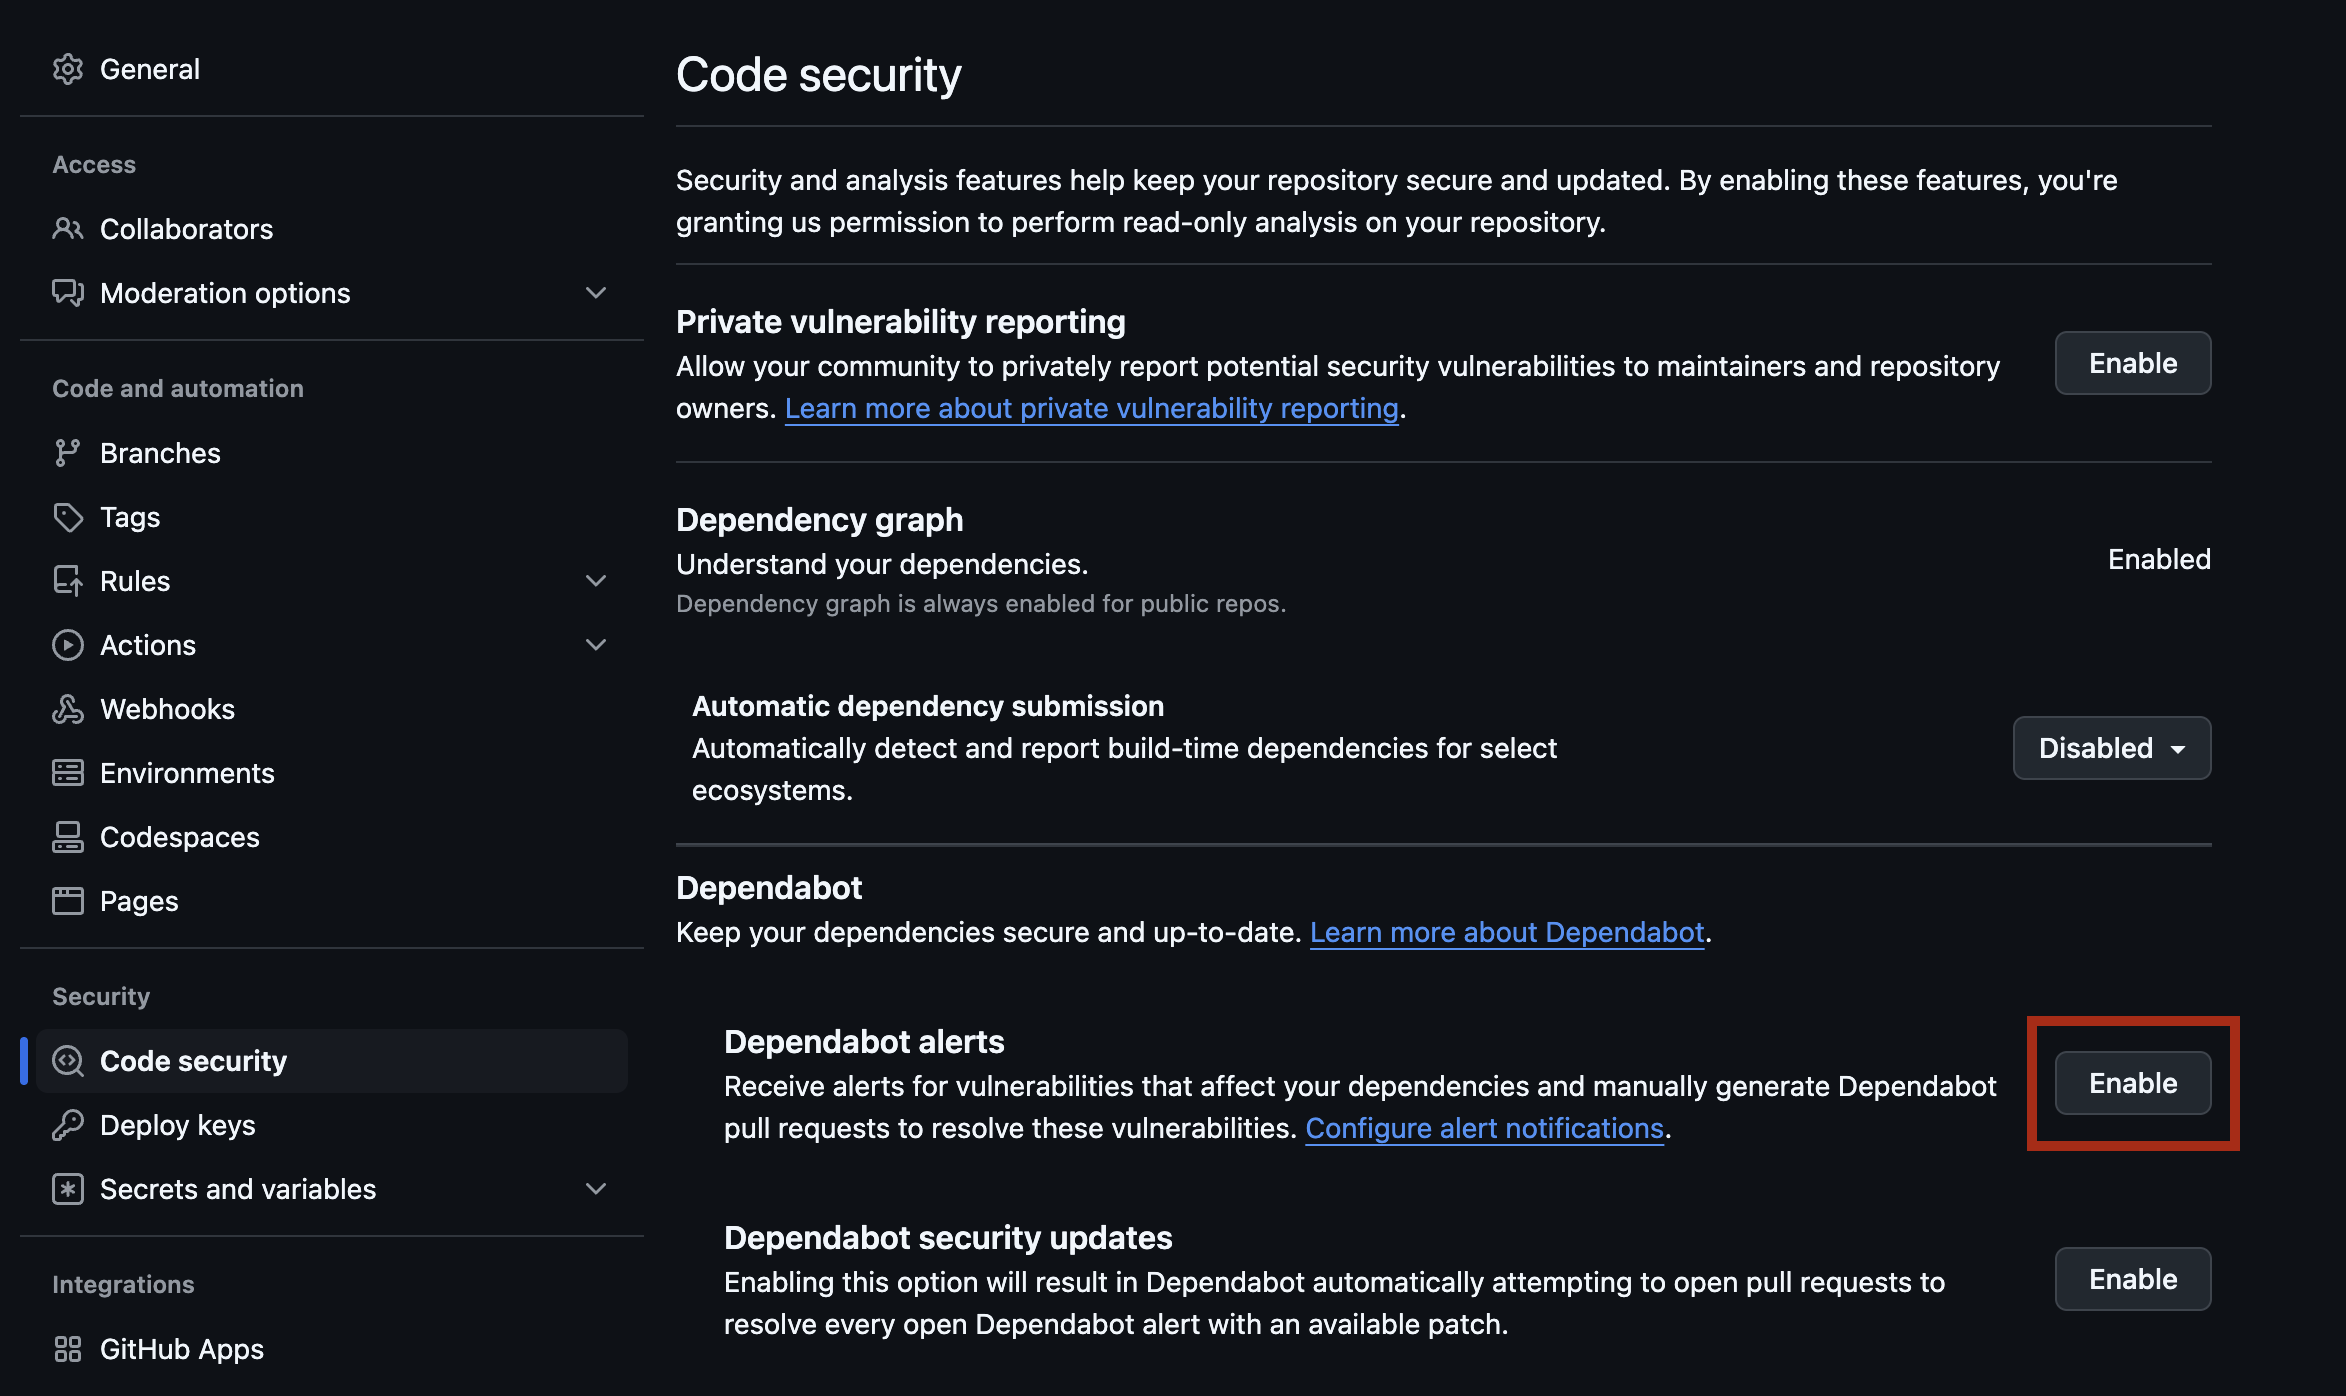
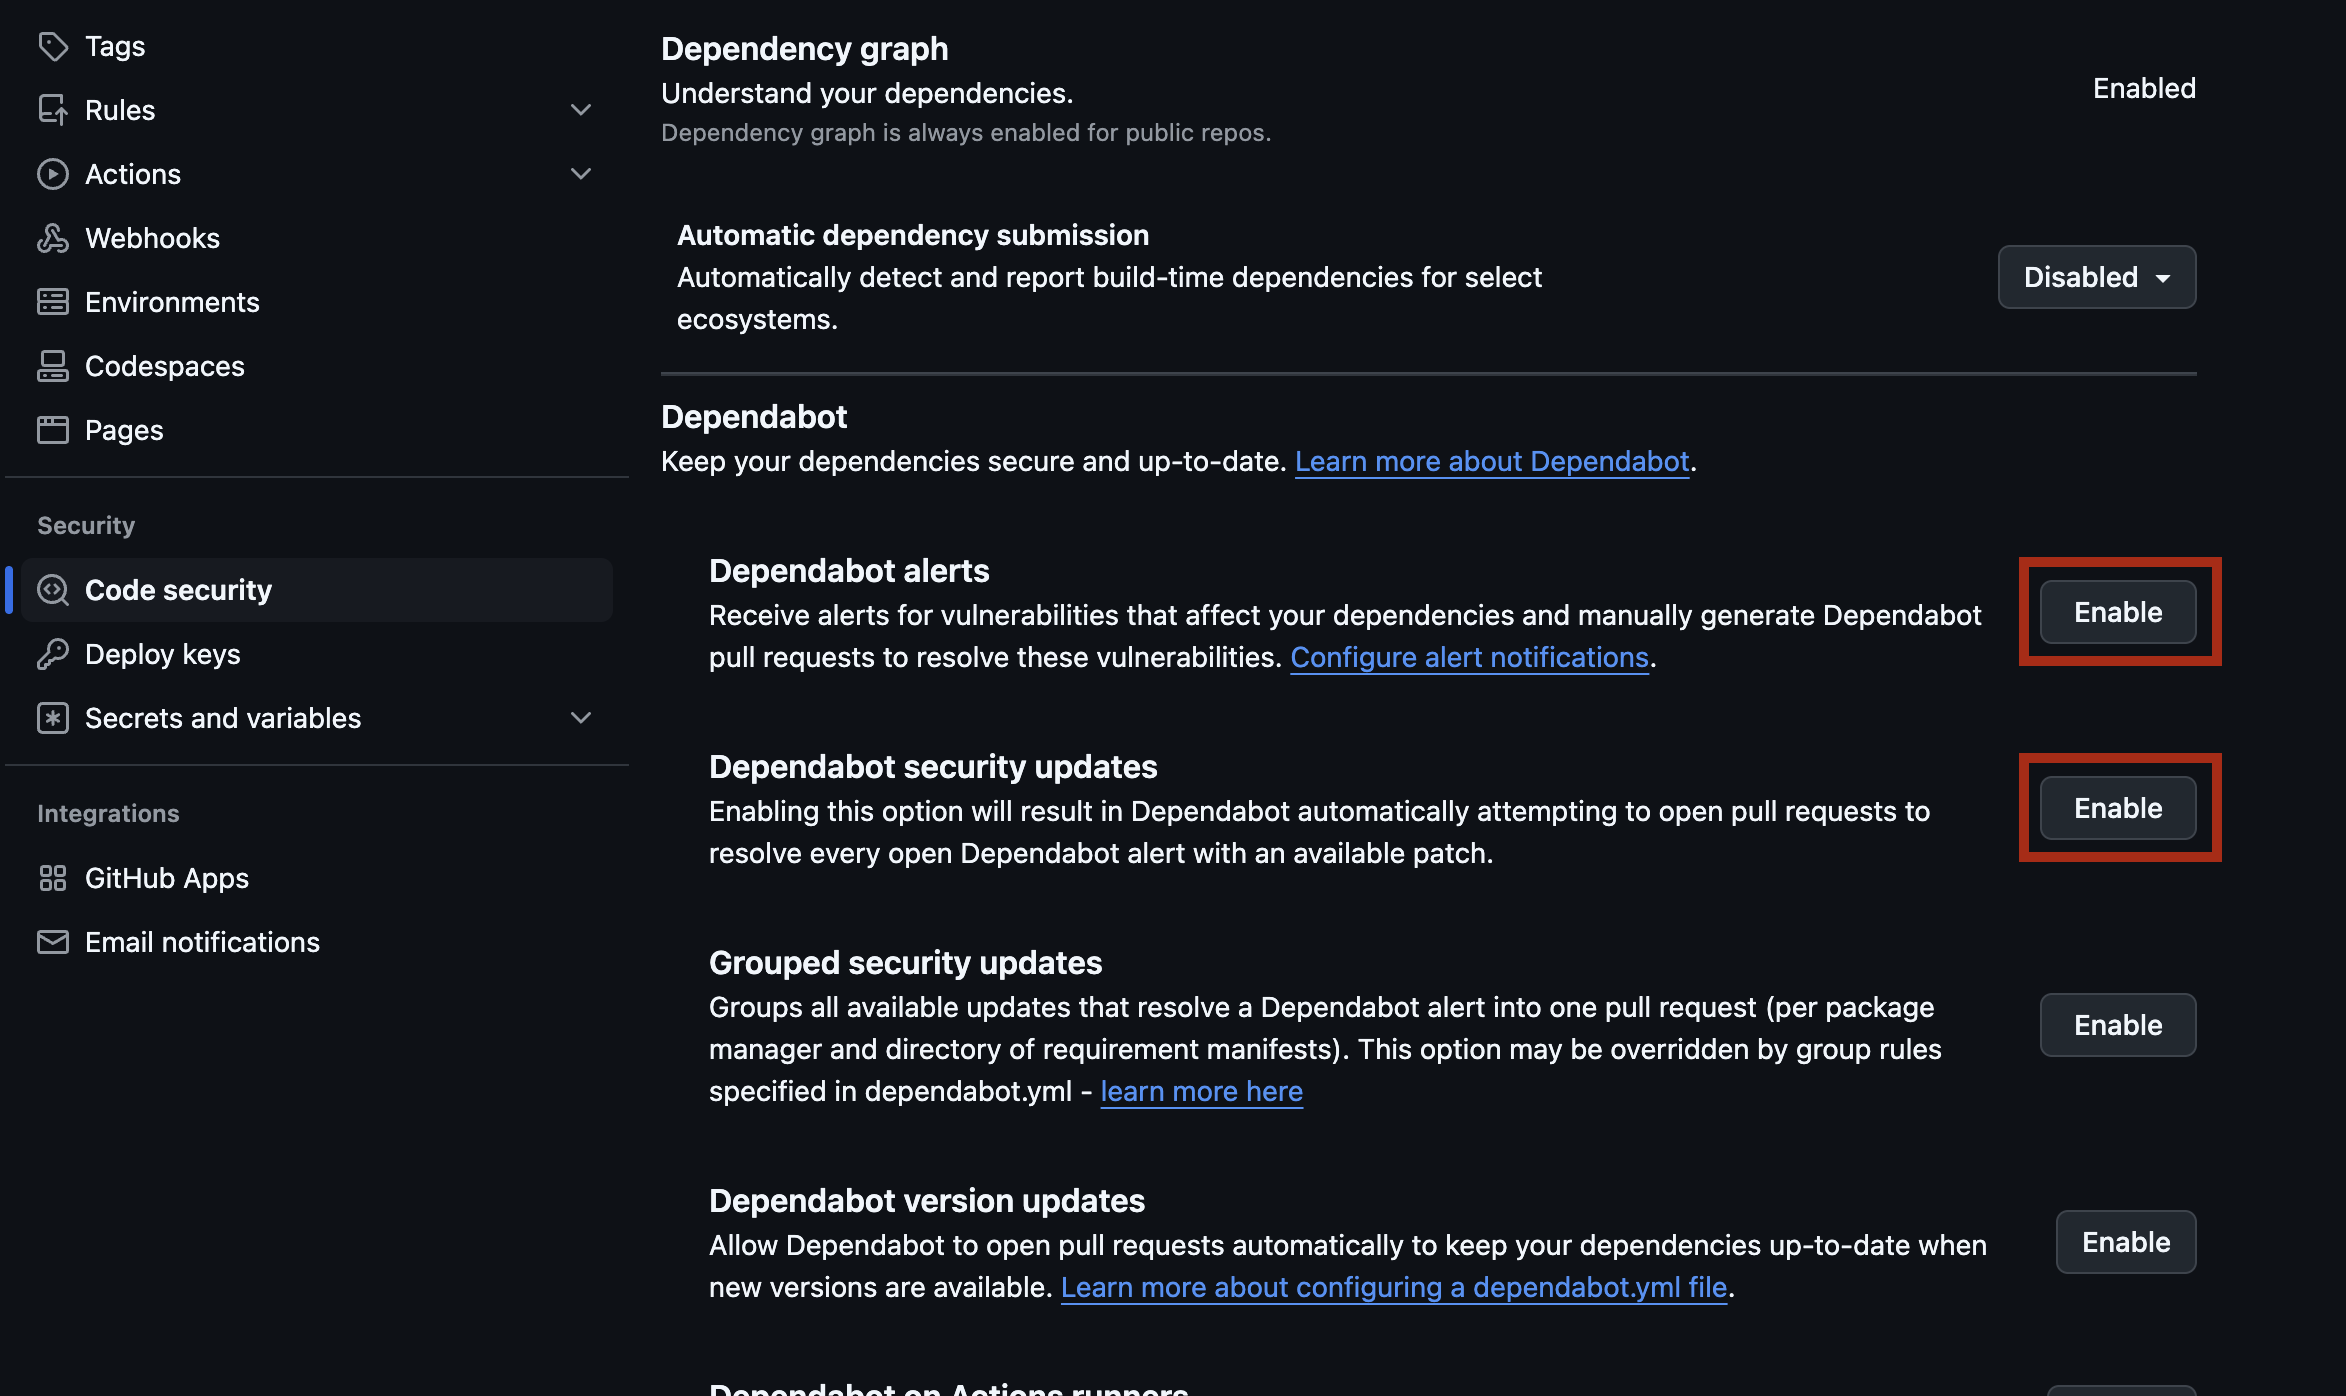
Update Dependabot instruction

diff --git a/README.md b/README.md
@@ -381,9 +381,11 @@ Detailed instruction explaining above steps can be found in [GitHub doc](https:/
 1. Go to Security tab in your Gtihub repository
 2. Click "Enable Dependabot alerts"
 ![alt text](img/sast/dependabot01.png)
-3. Click "Enable" on Dependabot Alerts 
+3. Click "Enable" on **Dependabot Alerts** and **Dependabot security updates**
 ![alt text](img/sast/dependabot02.png)
 4. Go back to Security tab and review Dependabot findings 
+![alt text](img/sast/dependabot03.png)
+Additionally Pull Request should be automatically created that suggest updating vulnerable library to vulnerability-free version
 
 ### 3.3.7. Releasing stable version
 After itegrating bunch of changes to `main`, you've finished working on a feature(s) and you need to release a new version. 
